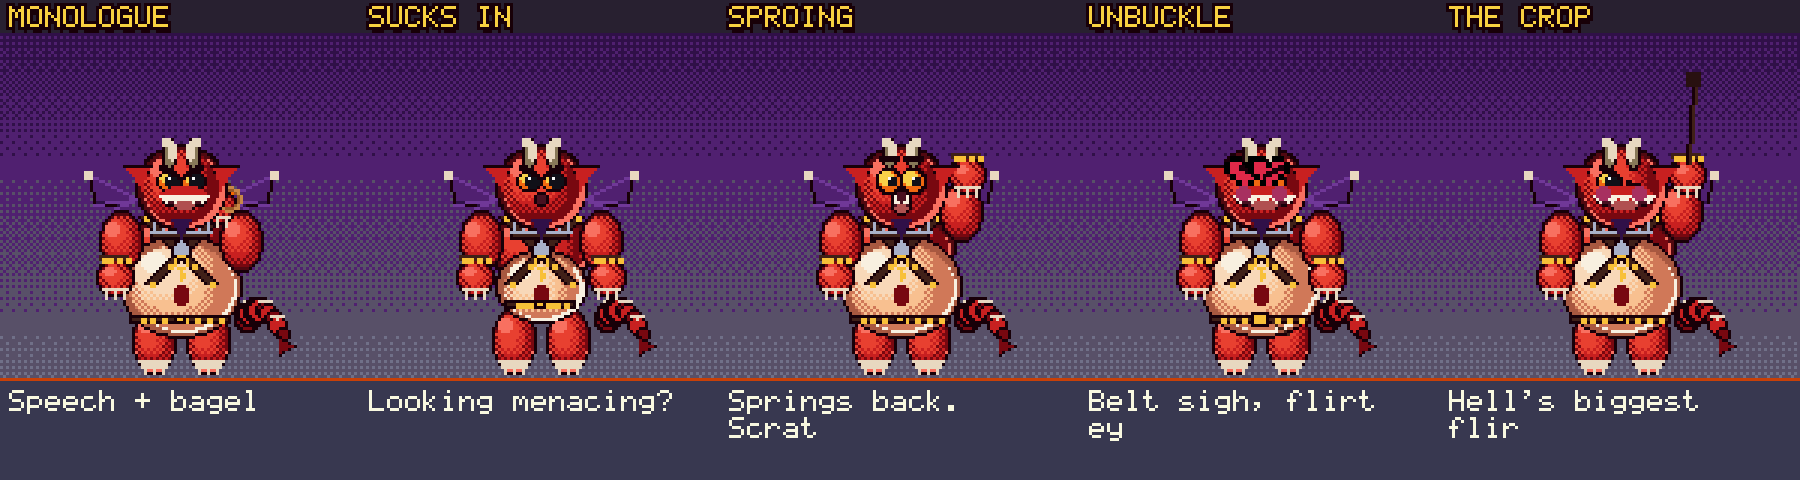
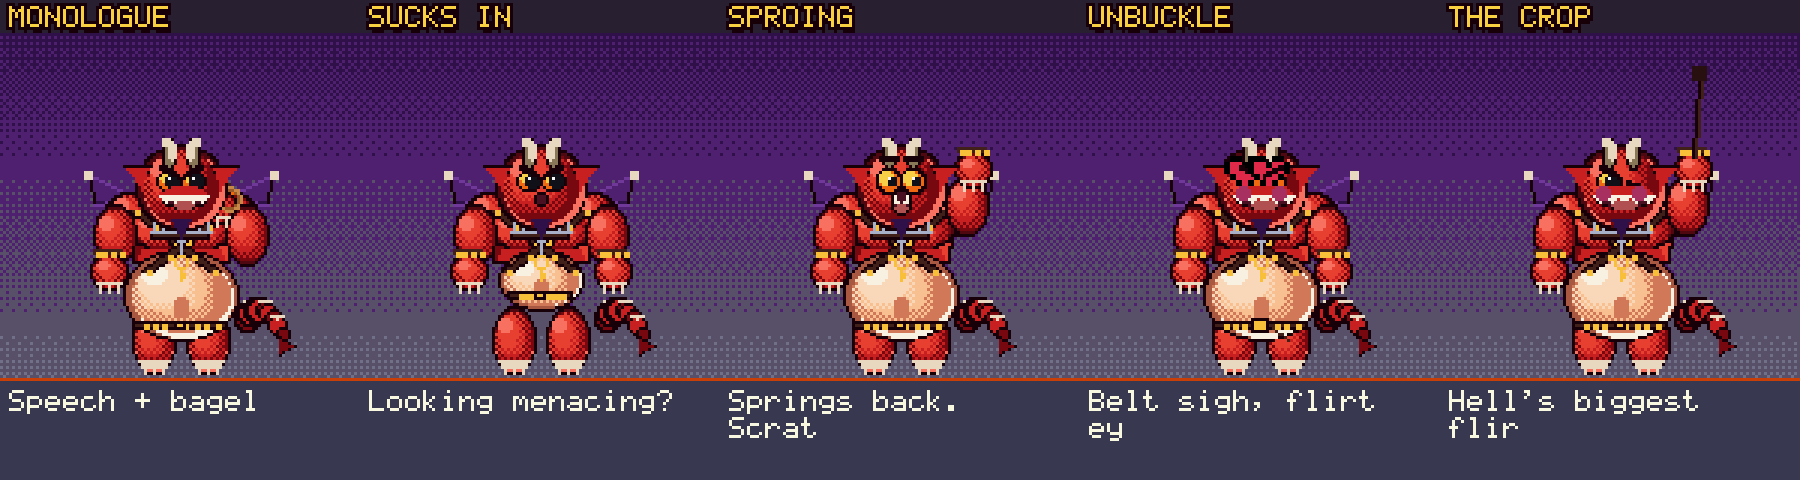
Grumbleguts concept: chest slab with pecs, belly hangs from the chest and inflates alone
Claude-Session: https://claude.ai/code/session_01RLcGbHBa2kju7ynbaJLHT6

diff --git a/trailer/concept/grumbleguts.c b/trailer/concept/grumbleguts.c
@@ -70,6 +70,24 @@ static void blob_outline_only(int cx, int cy, int rx, int ry, uint8_t b) {
     tk_ellipse(cx, cy, rx, ry, b);
 }
 
+/* torso slab: a shaded trapezoid with round shoulder caps, so he has a
+ * chest with heft instead of a stack of circles */
+static void torso(int cx, int top, int bottom, int wtop, int wbot) {
+    tk_tri(cx - wtop - 1, top, cx + wtop + 1, top, cx + wbot + 1, bottom + 1, LINE);
+    tk_tri(cx - wtop - 1, top, cx + wbot + 1, bottom + 1, cx - wbot - 1, bottom + 1, LINE);
+    tk_tri(cx - wtop, top, cx + wtop, top, cx + wbot, bottom, SKINM[2]);
+    tk_tri(cx - wtop, top, cx + wbot, bottom, cx - wbot, bottom, SKINM[2]);
+    tk_tri(cx - wtop, top, cx - wtop / 3, top, cx - wbot, bottom, SKINM[1]);      /* left shade */
+    tk_tri(cx + wtop / 3, top, cx + wtop, top, cx + wbot, bottom, SKINM[3]);      /* right light */
+    blob(cx - wtop + 2, top + 3, 7, 6, SKINM); blob(cx + wtop - 2, top + 3, 7, 6, SKINM); /* deltoids */
+}
+static void pecs(int cx, int y, int w) {
+    blob(cx - w / 2, y, w / 2 + 1, w / 3, SKINM);
+    blob(cx + w / 2, y, w / 2 + 1, w / 3, SKINM);
+    tk_line(cx, y - w / 3, cx, y + w / 3, LINE);
+    tk_line(cx - w / 2 - 2, y + w / 3 + 1, cx + w / 2 + 2, y + w / 3 + 1, SKINM[1]); /* under-pec shadow */
+}
+
 static void horns(int cx, int cy, int s, int flip) {
     /* two curved bone horns on the brow, like ref 1 */
     for (int side = -1; side <= 1; side += 2) {
@@ -177,9 +195,12 @@ static void face(int cx, int cy, int s, int expr, int dir) {
 
 /* The man himself. s = scale (2 = ~110 px tall). view V_*, pose P_*, expr E_*. */
 static void grumbleguts(int cx, int yf, int s, int view, int pose, int expr) {
-    int belly_r = (pose == P_INFLATED) ? 26 * s : (pose == P_SUCK_IN) ? 14 * s : 19 * s;
-    int butt_r  = (pose == P_INFLATED) ? 20 * s : 13 * s;
-    int body_y  = yf - 30 * s;        /* belly centre */
+    int belly_r = (pose == P_INFLATED) ? 27 * s : (pose == P_SUCK_IN) ? 13 * s : 18 * s;
+    int belly_ry = (pose == P_INFLATED) ? 22 * s : (pose == P_SUCK_IN) ? 9 * s : 14 * s;
+    int butt_r  = (pose == P_INFLATED) ? 19 * s : 13 * s;
+    int body_y  = yf - 30 * s;        /* reference: waist */
+    int chest_top = body_y - 24 * s, chest_bot = body_y - 6 * s;
+    int belly_cy = chest_bot - 2 * s + belly_ry;   /* belly hangs from the chest */
     int head_y  = yf - 60 * s;
     int dir = (view == V_SIDE) ? 1 : (view == V_BACK_LOOK ? -1 : 1);
 
@@ -205,31 +226,30 @@ static void grumbleguts(int cx, int yf, int s, int view, int pose, int expr) {
 
     /* ---- body ---- */
     if (view == V_SIDE) {
-        /* profile: belly bulges forward (right), butt bulges back (left) */
-        blob(cx - 10 * s, body_y + 2 * s, butt_r, butt_r - 2 * s, SKINM);   /* butt */
-        tk_line(cx - 10 * s, body_y - 2 * s, cx - 10 * s, body_y + butt_r - 4 * s, LINE);   /* cleft */
-        blob(cx + 2 * s, body_y - 10 * s, 11 * s, 12 * s, SKINM);           /* chest */
-        blob(cx + 8 * s, body_y + 2 * s, belly_r, belly_r - 3 * s, BELLYM); /* belly */
-        tk_circle(cx + 8 * s + belly_r - 3 * s, body_y + 3 * s, 2, SKIN_D);               /* navel */
-        /* harness */
-        strap(cx - 2 * s, body_y - 20 * s, cx + 6 * s, body_y - 4 * s, s);
-        /* belt under the belly */
-        tk_rect(cx - 10 * s - butt_r + 2, body_y + belly_r - 6 * s, 20 * s + belly_r, 3 * s, LEATHER);
-        tk_frame(cx - 10 * s - butt_r + 2, body_y + belly_r - 6 * s, 20 * s + belly_r, 3 * s, LINE);
-        studs(cx - 6 * s, body_y + belly_r - 5 * s, cx + 10 * s + belly_r - 4 * s, body_y + belly_r - 5 * s, 6);
+        /* profile: chest slab leaning forward, belly hanging in front, butt behind */
+        blob(cx - 10 * s, body_y + 4 * s, butt_r, butt_r - 2 * s, SKINM);                   /* butt */
+        tk_line(cx - 10 * s, body_y, cx - 10 * s, body_y + butt_r - 2 * s, LINE);           /* cleft */
+        torso(cx + 2 * s, chest_top, chest_bot, 12 * s, 10 * s);
+        blob(cx + 9 * s, chest_top + 8 * s, 8 * s, 5 * s, SKINM);                             /* pec */
+        blob(cx + 6 * s, belly_cy, belly_r - 2 * s, belly_ry, BELLYM);                       /* belly */
+        tk_circle(cx + 6 * s + belly_r - 5 * s, belly_cy + 2 * s, 2, PAL_RAMP(RAMP_PEACH, 3)); /* navel */
+        strap(cx - 4 * s, chest_top + 2 * s, cx + 10 * s, chest_bot + 2 * s, s);
+        int by = belly_cy + belly_ry - 5 * s;
+        tk_rect(cx - 10 * s - butt_r + 2, by, 16 * s + butt_r + belly_r, 3 * s, LEATHER);
+        tk_frame(cx - 10 * s - butt_r + 2, by, 16 * s + butt_r + belly_r, 3 * s, LINE);
+        studs(cx - 6 * s, by + s, cx + 4 * s + belly_r, by + s, 6);
     } else if (view == V_FRONT) {
-        /* pecs on top of the gut: the effort shows */
-        blob(cx, body_y - 10 * s, 17 * s, 11 * s, SKINM);
-        tk_line(cx, body_y - 18 * s, cx, body_y - 4 * s, SKIN_D);
-        blob(cx, body_y + 3 * s, belly_r, belly_r - 3 * s, BELLYM);
-        tk_ellipse(cx, body_y + 6 * s, 2, 3, SKIN_D);                                      /* navel */
-        if (pose == P_INFLATED) { tk_ring(cx, body_y + 3 * s, belly_r - 4 * s, PAL_RAMP(RAMP_PEACH, 3)); tk_ring(cx, body_y + 3 * s, belly_r - 8 * s, PAL_RAMP(RAMP_PEACH, 3)); }
-        /* X harness with gold studs */
-        strap(cx - 12 * s, body_y - 20 * s, cx + 10 * s, body_y + 2 * s, s);
-        strap(cx + 12 * s, body_y - 20 * s, cx - 10 * s, body_y + 2 * s, s);
-        tk_circle(cx, body_y - 9 * s, 3 * s, LINE); tk_circle(cx, body_y - 9 * s, 2 * s, CHAIN);   /* ring */
+        torso(cx, chest_top, chest_bot, 19 * s, 15 * s);
+        pecs(cx, chest_top + 8 * s, 16 * s);
+        blob(cx, belly_cy, belly_r, belly_ry, BELLYM);
+        tk_ellipse(cx, belly_cy + belly_ry / 3, 2, 3, PAL_RAMP(RAMP_PEACH, 3));              /* navel */
+        if (pose == P_INFLATED) { tk_ring(cx, belly_cy, belly_r - 4 * s, PAL_RAMP(RAMP_PEACH, 4)); tk_ring(cx, belly_cy, belly_r - 9 * s, PAL_RAMP(RAMP_PEACH, 4)); }
+        /* X harness over the chest, ring at the sternum */
+        strap(cx - 15 * s, chest_top + 2 * s, cx + 11 * s, chest_bot + 4 * s, s);
+        strap(cx + 15 * s, chest_top + 2 * s, cx - 11 * s, chest_bot + 4 * s, s);
+        tk_circle(cx, chest_top + 10 * s, 3 * s, LINE); tk_circle(cx, chest_top + 10 * s, 2 * s, CHAIN);
         /* belt + buckle under the belly */
-        int by = body_y + belly_r - 6 * s;
+        int by = belly_cy + belly_ry - 5 * s;
         tk_rect(cx - belly_r + 2, by, 2 * belly_r - 4, 3 * s, LEATHER);
         tk_frame(cx - belly_r + 2, by, 2 * belly_r - 4, 3 * s, LINE);
         studs(cx - belly_r + 6, by + s, cx + belly_r - 6, by + s, 7);
@@ -237,9 +257,10 @@ static void grumbleguts(int cx, int yf, int s, int view, int pose, int expr) {
         else { tk_rect(cx - 2 * s, by, 4 * s, 3 * s, STUD); tk_frame(cx - 2 * s, by, 4 * s, 3 * s, LINE); }
     } else {
         /* back: broad shoulders, X straps, and THE BUTT front and centre */
-        blob(cx, body_y - 8 * s, 18 * s, 14 * s, SKINM);
-        strap(cx - 12 * s, body_y - 20 * s, cx + 8 * s, body_y, s);
-        strap(cx + 12 * s, body_y - 20 * s, cx - 8 * s, body_y, s);
+        torso(cx, chest_top, chest_bot + 4 * s, 19 * s, 14 * s);
+        tk_line(cx, chest_top + 4 * s, cx, chest_bot, SKINM[1]);                            /* spine */
+        strap(cx - 15 * s, chest_top + 2 * s, cx + 10 * s, chest_bot + 2 * s, s);
+        strap(cx + 15 * s, chest_top + 2 * s, cx - 10 * s, chest_bot + 2 * s, s);
         int by = body_y + 4 * s;
         blob(cx - butt_r / 2 - s, by + butt_r / 2, butt_r, butt_r, SKINM);
         blob(cx + butt_r / 2 + s, by + butt_r / 2, butt_r, butt_r, SKINM);
@@ -264,9 +285,9 @@ static void grumbleguts(int cx, int yf, int s, int view, int pose, int expr) {
     /* ---- arms: thick, biceps, clawed hands ---- */
     for (int side = -1; side <= 1; side += 2) {
         if (view == V_SIDE && side == -1) continue;
-        int ax = cx + side * 20 * s, ay = body_y - 12 * s;
+        int ax = cx + side * 22 * s, ay = chest_top + 10 * s;
         int raised = (pose == P_SPRING || pose == P_CROP) && side == 1;
-        if (pose == P_WIGGLE || view == V_BACK || view == V_BACK_LOOK) { ax = cx + side * 21 * s; ay = body_y - 6 * s; }
+        if (pose == P_WIGGLE || view == V_BACK || view == V_BACK_LOOK) { ax = cx + side * 22 * s; ay = chest_top + 12 * s; }
         blob(ax, raised ? ay - 10 * s : ay, 6 * s, 9 * s, SKINM);           /* bicep */
         int hx = ax + side * 2 * s, hy = raised ? ay - 22 * s : ay + 12 * s;
         if (pose == P_SNACK && side == 1) { hx = cx + 12 * s; hy = head_y + 6 * s; }
